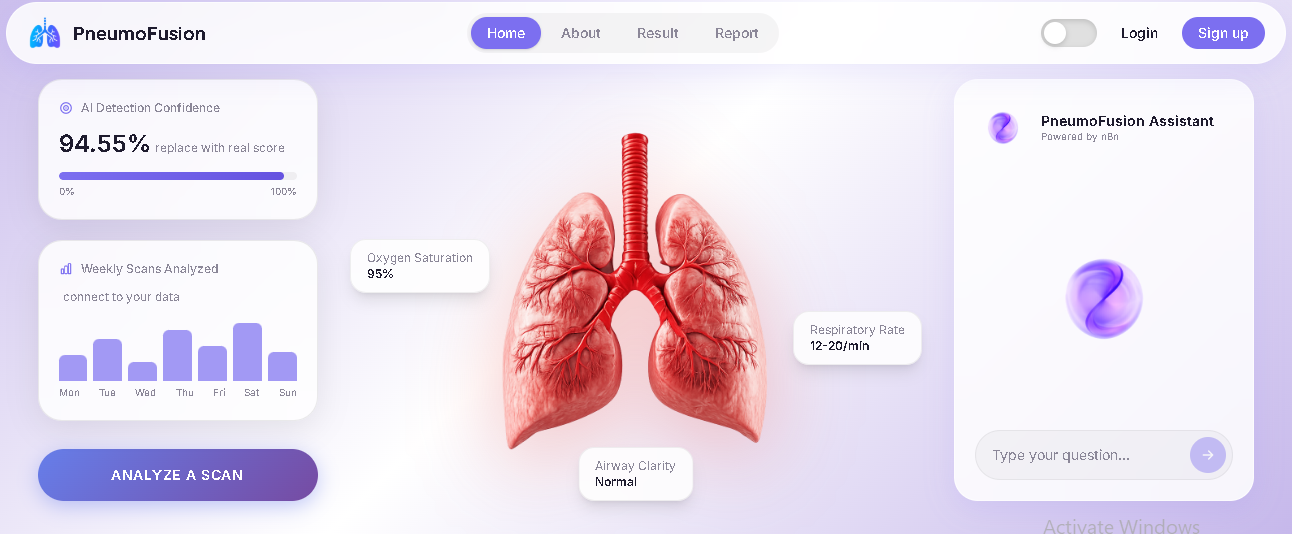
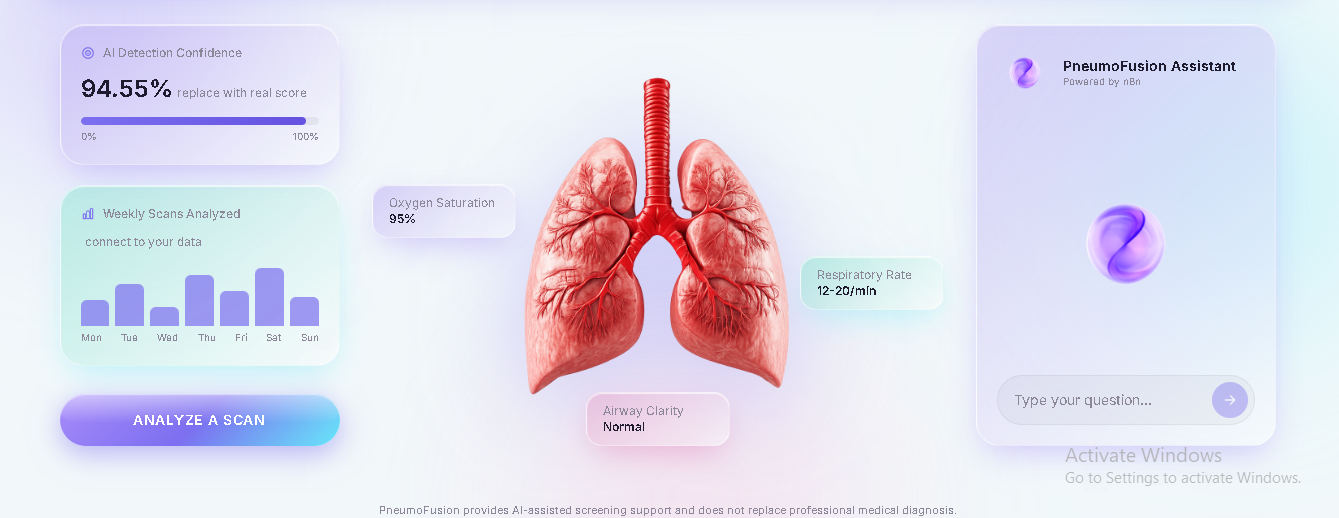
corecting

diff --git a/src/components/Projects.jsx b/src/components/Projects.jsx
@@ -42,16 +42,31 @@ const BASE_TOP = 70;
 
 function ImageTile({ src, accent, style, className }) {
   return (
-    <div className={`relative overflow-hidden rounded-2xl ${className || ""}`} style={style}>
+    <div
+      className={`relative overflow-hidden rounded-2xl bg-[#0d0d10] ${className || ""}`}
+      style={style}
+    >
       {src ? (
-        <img src={src} alt="" className="absolute inset-0 w-full h-full object-cover" />
+        <>
+          {/* blurred zoomed copy fills all empty space */}
+          <img
+            src={src}
+            alt=""
+            className="absolute inset-0 w-full h-full object-cover blur-2xl scale-110 opacity-40"
+          />
+          {/* actual full image, uncropped, centered on top */}
+          <img
+            src={src}
+            alt=""
+            className="absolute inset-0 w-full h-full object-contain"
+          />
+        </>
       ) : (
         <div className={`absolute inset-0 bg-gradient-to-br ${accent} bg-[#111]`} />
       )}
     </div>
   );
 }
-
 function ProjectHeader({ project, href, label }) {
   return (
     <div className="relative z-10 flex flex-wrap items-start justify-between gap-4">
